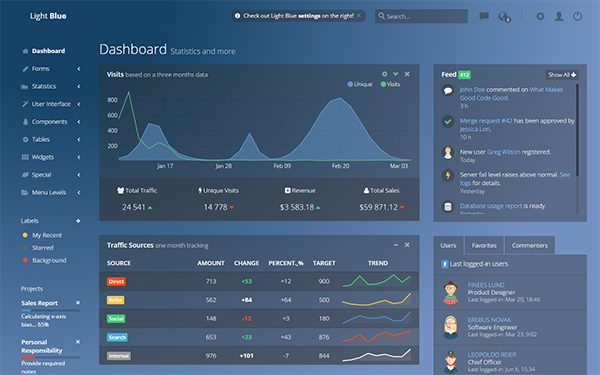
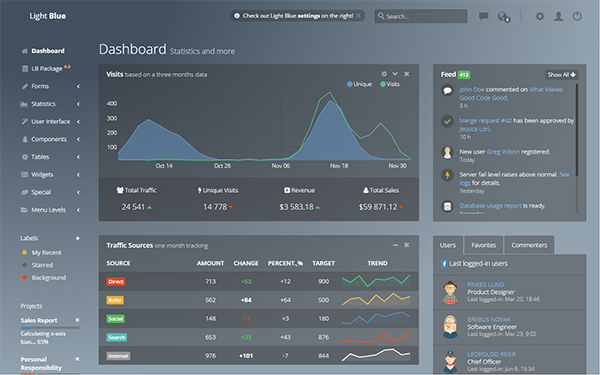
chore: v4.0.0, fix links

diff --git a/documentation/index.html b/documentation/index.html
@@ -85,7 +85,7 @@
         <div class="row-fluid">
             <div class="span10 offset1">
                 <section class="widget">
-                    <h2>About Template (Light Blue 3.9.1)</h2>
+                    <h2>About Template (Light Blue 4.0.0)</h2>
                     <p><strong>Light Blue Admin Template</strong> is next-generation, well-designed and powerful
                         front-end template. It's very useful for designing either your next
                         web application or admin entrance for it.</p>
@@ -98,7 +98,7 @@
                         Transparent Dark version or <a href="../html-white/dist">../html-white/dist folder</a> if you prefer White version)
                         to check the most default html/css-only version of Light Blue. The stuff below
                     is for compiling different variations of Light Blue from sass/handlebars sources.</p>
-                    <p><strong>For <strong>React JS Seed version</strong> please refer to <a href="#running-react">React JS Section</a> of this documentation.</strong></p>
+                    <p><strong>For <strong>React JS Full version</strong> please refer to <a href="#running-react">React JS Section</a> of this documentation.</strong></p>
                     <p><strong>For <strong>Angular 4.4 Full version</strong> please refer to <a href="#running-angular4">Angular 4.0 Section</a> of this documentation.</strong></p>
                     <p>Since version <span class="label label-important">3.0.0</span> Light Blue template depends on
                         <a href="http://gruntjs.com/">Grunt Task runner</a>
@@ -115,7 +115,7 @@
                     </ul>
                     <p>Every version (as of 3.3.0 there are <a href="../html-transparent">html-transparent-light</a>,
                         <a href="../html-transparent-dark">html-transparent-dark</a> and <a href="../html-white">html-white</a>)
-                        goes with the following folders (except <a href="../angular2">Angular 4.0</a> version):</p>
+                        goes with the following folders (except <a href="../angular2">angular 5.0</a> version):</p>
                     <ul style="list-style: disc; padding-left: 40px; margin-bottom: 10px">
                         <li><strong>src</strong> - handlebars & sass sources;</li>
                         <li><strong>dist</strong> - compiled html & css files;</li>
@@ -205,10 +205,10 @@ $> bower install</code></pre>
                     variable to <code>false</code> (js/app.js file):</p>
                     <pre><code>window.PJAX_ENABLED = false;</code></pre>
 
-                    <h2 id="running-react">Running the project <small><span class="label label-info" style="font-size: 13px">react js seed version</span></small></h2>
+                    <h2 id="running-react">Running the project <small><span class="label label-info" style="font-size: 13px">react js full version</span></small></h2>
                     <ol style="list-style: decimal; padding-left: 40px; margin-bottom: 10px" start="0">
                         <li><p>Install <a href="https://yarnpkg.com/">Yarn package</a> + <a href="https://nodejs.org/">Node.js</a> v6.5 or newer</p></li>
-                        <li><p>Run <code>yarn install</code> to install node dependencies defined in <a href="../react-seed/package.json">package.json</a>.</p></li>
+                        <li><p>Run <code>yarn install</code> to install node dependencies defined in <a href="../react/package.json">package.json</a>.</p></li>
                         <li><p>Run <code>yarn start</code> to run the project</p></li>
                     </ol>
                     <p>Now you can open your web app in a browser <a href="http://localhost:3001/">http://localhost:3001/</a>, on mobile devices and start
@@ -222,7 +222,7 @@ $> bower install</code></pre>
                             to your production server when publising the application;</p></li>
                         <li><p><code>yarn run lint</code> - checks your code files for javascript & scss errors.</p></li>
                     </ul>
-                    <p>For more instruction please refer to React JS Seed <a href="../react-seed/readme.md">readme.md</a>.</p>
+                    <p>For more instruction please refer to React JS Seed <a href="../react/readme.md">readme.md</a>.</p>
 
                     <h2 id="running-angular4">Running the project <small><span class="label label-info" style="font-size: 13px">angular 2 full version</span></small></h2>
                     <ol style="list-style: decimal; padding-left: 40px; margin-bottom: 10px" start="0">
@@ -230,7 +230,7 @@ $> bower install</code></pre>
                             choose Custom Install, and select both Windows 8.1 and Windows 10 SDKs.
                             <a href="https://www.python.org/">Python 2.7</a> is also required. For an extensive description on how to solve <code>node-gyp</code> problems please read though this
                             <a href="https://github.com/nodejs/node-gyp/issues/629">thread on github</a>.</p></li>
-                        <li><p>Run <code>npm install</code> to install node dependencies defined in <a href="../angular4-seed/package.json">package.json</a> and to install typings defined in <a href="../angular4-seed/typings.json">typings.json</a></p></li>
+                        <li><p>Run <code>npm install</code> to install node dependencies defined in <a href="../angular5-seed/package.json">package.json</a> and to install typings defined in <a href="../angular5-seed/typings.json">typings.json</a></p></li>
                         <li><p>Run <code>npm start</code> to run the project</p></li>
                     </ol>
                     <p>There are also other npm tasks:</p>
@@ -240,15 +240,15 @@ $> bower install</code></pre>
                             to your production server when publising the application;</p></li>
                         <li><p><code>npm run lint</code> - checks your code in <code>.ts</code> files for typescript errors</p></li>
                     </ul>
-                    <p>For more instruction please refer to Angular 4.0 Final seed <a href="../angular4/readme.md">readme.md</a>.</p>
+                    <p>For more instruction please refer to angular 5.0 Final seed <a href="../angular5/readme.md">readme.md</a>.</p>
 
                     <h2 id="seed">Seed (minimal setup)</h2>
-                    <p>There is one more version of Light Blue included into the package <a href="../angular4-seed">angular 4 seed version</a>. It is intended to be used when you want to build a project
+                    <p>There is one more version of Light Blue included into the package <a href="../angular5-seed">angular 5 seed version</a>. It is intended to be used when you want to build a project
                         from scratch and do not want to have all libraries enabled in Light Blue demo to be included in your project be default. So, in short, it's a same Light Blue angular
                         version but containing only essential functionality. You don't need to throw anything out of it; it is ready to be a "seed" for
                         your project - just start to add your code.</p>
 
-                    <h2 id="custom-angular4-widget">Custom Angular 4 Widget</h2>
+                    <h2 id="custom-angular4-widget">Custom angular 5 Widget</h2>
                     <p>Angular applications are made up of components. A component is the combination of an HTML template and a component class that controls a portion of the screen. Here is an example of a component that displays a current date:</p>
                     <ol style="list-style: decimal; padding-left: 40px; margin-bottom: 10px" start="0">
                         <li><p>Create directory <code>current-date</code> in <code>./src/app</code> path</p></li>
@@ -316,7 +316,7 @@ export class CurrentDateModule {
 </code></pre></li>
                         </ul>
                         <li>To add route for the custom widget page go to <code>./src/app/layout/layout.routes.ts</code>; Add to the <strong>routes</strong> object next code: <code>{ path: 'current-date', loadChildren: '../current-date/current-date.module#CurrentDateModule' }</code></li>
-                        <li>Full start guide for Angular 4 framework you can find here: <a href="https://angular.io/docs/ts/latest/guide/">Angualar 2 Guide</a></li>
+                        <li>Full start guide for angular 5 framework you can find here: <a href="https://angular.io/docs/ts/latest/guide/">Angualar 2 Guide</a></li>
                     </ol>
 
                     <h2>Support</h2>
@@ -349,6 +349,13 @@ export class CurrentDateModule {
 
                     <h3>Change Log</h3>
                     <hr/>
+                    <h4><strong>Version 4.0.0</strong></h4>
+                    <ul>
+                        <li>- React JS Full version with Server Side Rendering and Bootstrap 4 Beta support</li>
+                        <li>- Update Angular to 5.0.0</li>
+                        <li>- Retouch design</li>
+                        <li>- Fix various bugs</li>
+                    </ul>
                     <h4><strong>Version 3.9.1</strong></h4>
                     <ul>
                         <li>- Bootstrap 4 Beta update for Angular 4.0 version</li>

diff --git a/readme.md b/readme.md
@@ -1,15 +1,21 @@
-Light Blue v3.9.1 with Angular 4.0 Final and React Versions!
+Light Blue v4.0.0 with Angular 5.0 and React Versions!
 =========
 
-![Light Blue Preview](http://demo.flatlogic.com/3.9.1/light-blue-preview-2017.png)
+![Light Blue Preview](http://demo.flatlogic.com/4.0.0/light-blue-preview-2018-1.png)
+![Light Blue Preview](http://demo.flatlogic.com/4.0.0/light-blue-preview-2018-2.png)
+![Light Blue Preview](http://demo.flatlogic.com/4.0.0/light-blue-preview-2018-3.png)
+**Our team of proven industry experts invested around 500 hours in every version of Light Blue Dashboard rigorously
+crafting it from head to toe. This evaluates to $20 000 considering current Javascript development rates.
+You could hire someone and have this amount in your bill, but you have the whole app for only $26!*
+
 
 **World First Transparent Dashboard**
 
-Available in six versions [transparent dark (basic)](http://demo.flatlogic.com/3.9.1/dark),
- [transparent light](http://demo.flatlogic.com/3.9.1/light),
- [white opaque](http://demo.flatlogic.com/3.9.1/white) all with handlebars and bower under the hood;
- plus **Angular 4.0** Full and Seed versions [Angular 4.0 Full version](http://demo.flatlogic.com/3.9.1/a4)
- and completely new **React JS** Seed version with **Server Side Rendering** and Bootstrap 4 Beta support!
+Available in seven versions [transparent dark (basic)](http://demo.flatlogic.com/4.0.0/dark),
+ [transparent light](http://demo.flatlogic.com/4.0.0/light),
+ [white opaque](http://demo.flatlogic.com/4.0.0/white) all with handlebars and bower under the hood;
+ plus **Angular 4.0** Full and Seed versions [Angular 4.0 Full version](http://demo.flatlogic.com/4.0.0/a4)
+ and completely new **React JS** Full and Seed versions with **Server Side Rendering**! [React JS Version](https://light-blue.herokuapp.com).
 
 Light Blue is a **next generation** dashboard template based on the unique transparent design. There are few reasons why we created it:.
 
@@ -18,10 +24,12 @@ Light Blue is a **next generation** dashboard template based on the unique trans
   - We didn't like the high contrast of most of admin templates, so we created this **unobtrusive** one.
   - We searched for a solution of how to make widgets look like real widgets, so we decided that **deep background** - is what makes widgets look real.
 
-New Version 3.9.1 Released!
+New Version 4.0.0 Released!
 
-- Bootstrap 4 Beta update for Angular 4.0 version
-- Styles refactoring
+- React JS Full version with Server Side Rendering and Bootstrap 4 Beta support
+- Update Angular to 5.0
+- Retouch design
+- Fix various bugs
 
 **Light Blue** works great with all range of devices: starting from small mobile to large desktop ones.
 **Light Blue** will make the development of your next web application or admin entrance for it much easier and faster.

diff --git a/changelog.md b/changelog.md
@@ -2,6 +2,13 @@
 Changelog
 -
 
+Version 4.0.0
+
+- React JS Full version with Server Side Rendering and Bootstrap 4 Beta support
+- Update Angular to 5.0.0
+- Retouch design
+- Fix various bugs
+
 Version 3.9.1
 
 - Bootstrap 4 Beta update for Angular 4.0 version
